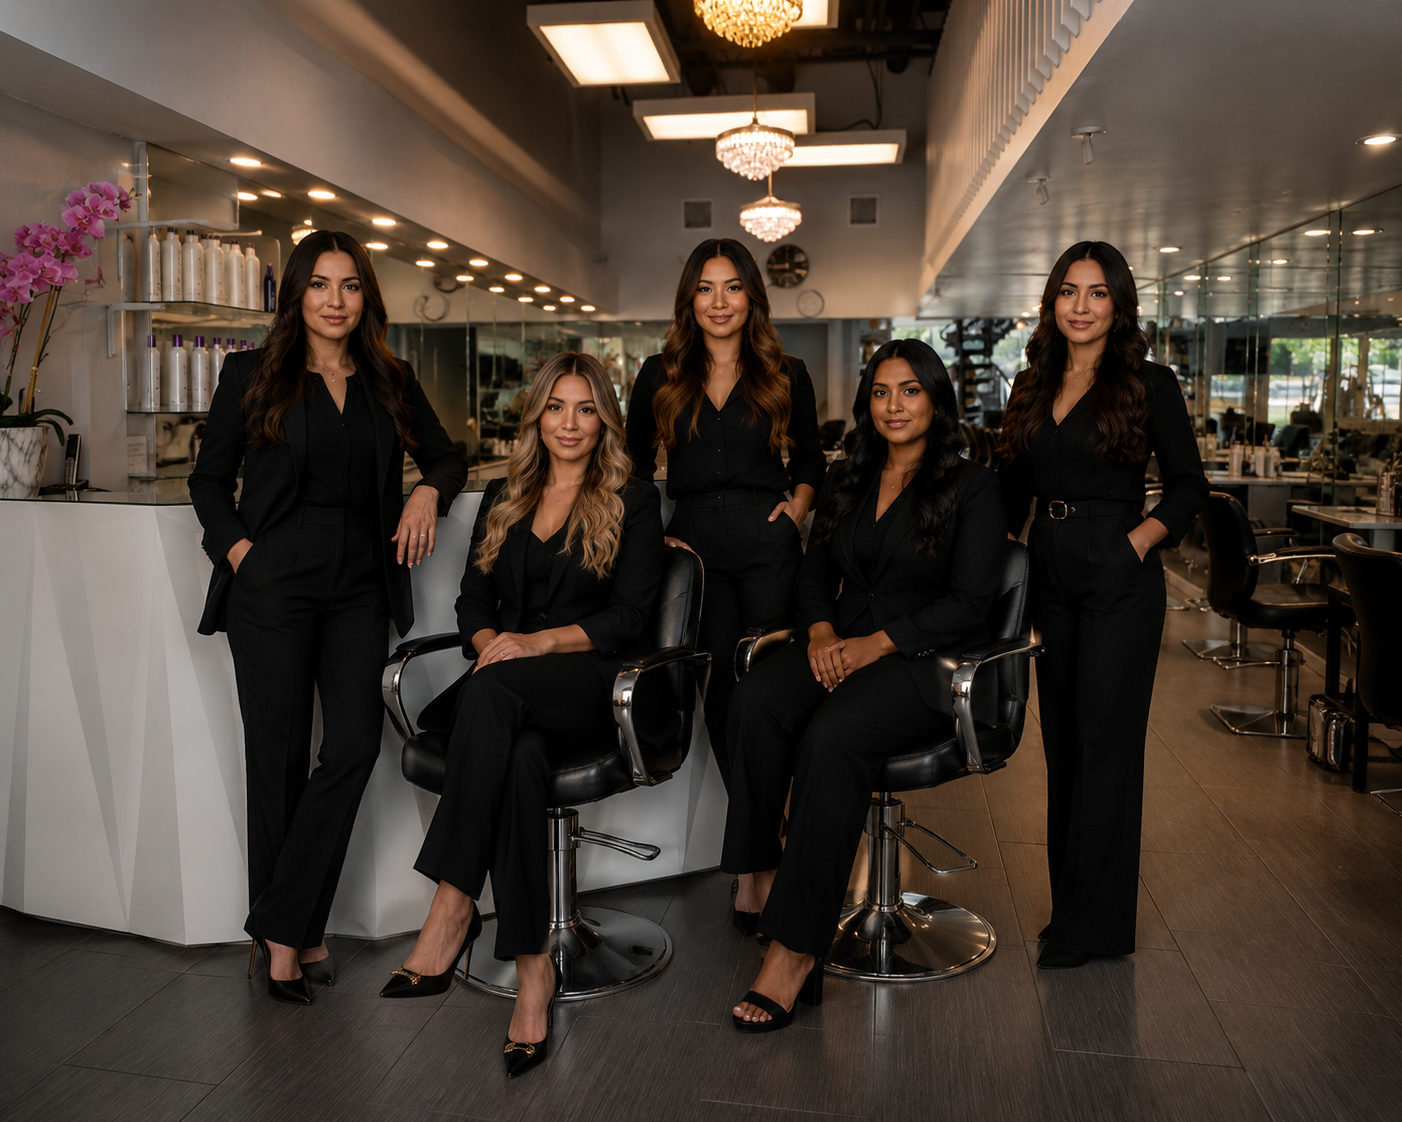
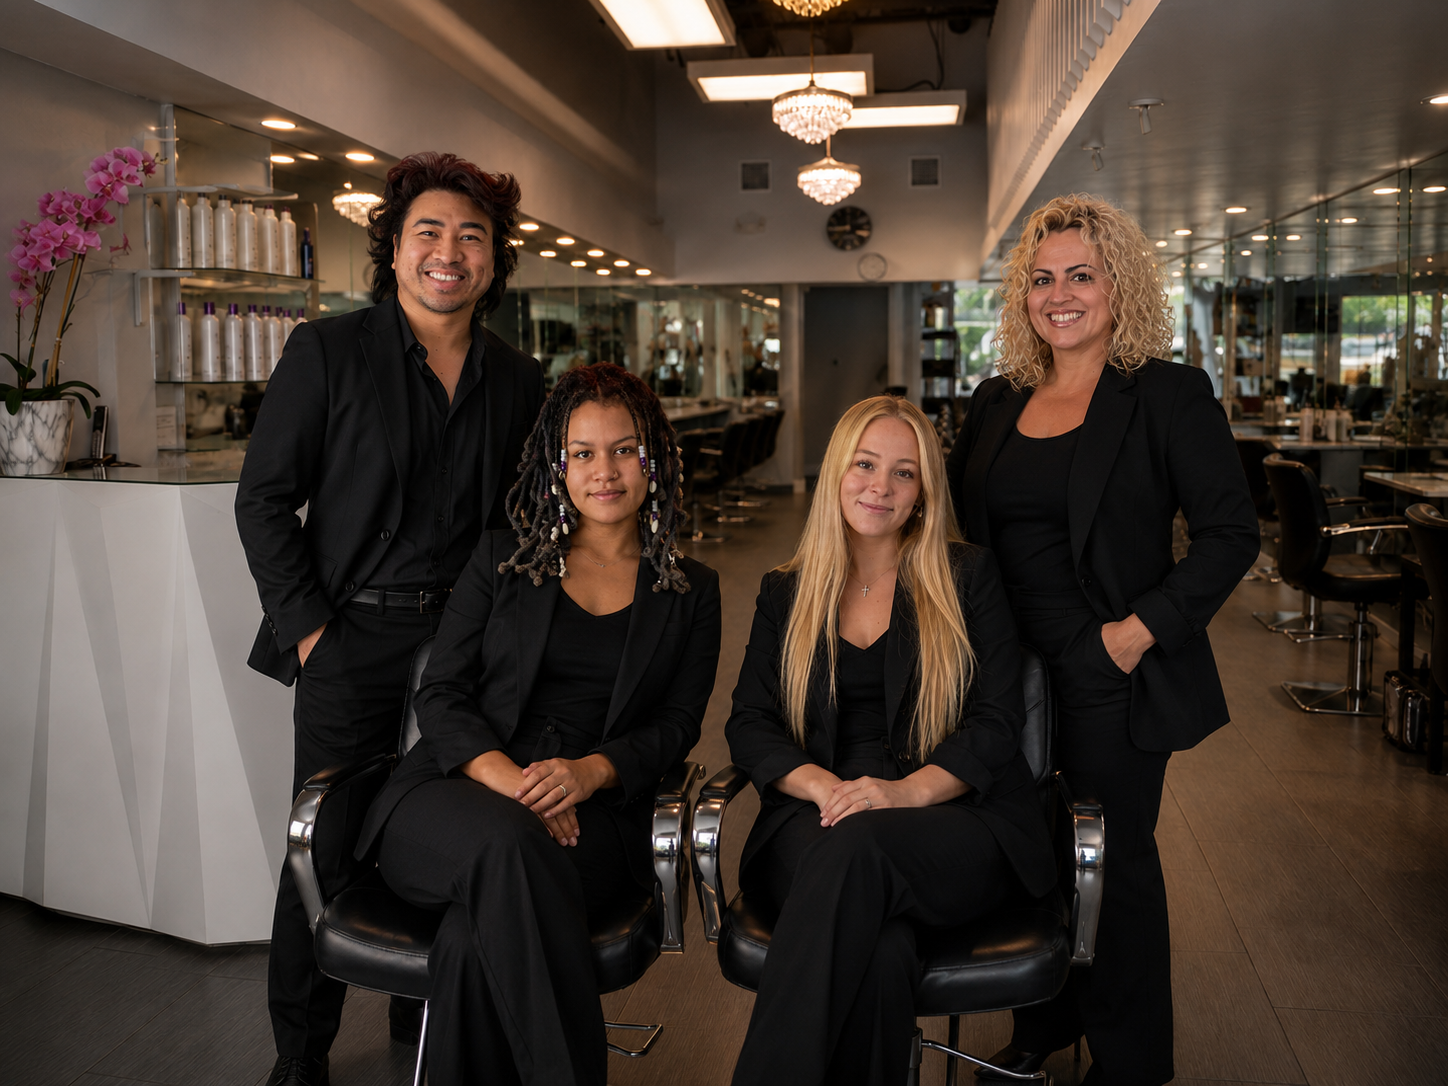
Update homepage team photo and replace team section with real staff

diff --git a/index.html b/index.html
@@ -472,7 +472,7 @@
     }
     .team-grid {
       display: grid;
-      grid-template-columns: repeat(5, 1fr);
+      grid-template-columns: repeat(4, 1fr);
       gap: 28px;
       max-width: 1200px;
       margin: 0 auto;
@@ -1132,7 +1132,6 @@
       .about-section { grid-template-columns: 1fr; gap: 56px; padding: 88px 28px; }
       .team-section { padding: 80px 28px; }
       .team-grid { grid-template-columns: 1fr 1fr; gap: 24px; }
-      .team-grid .team-card:last-child { grid-column: 1 / -1; max-width: calc(50% - 12px); margin: 0 auto; }
       .about-img-wrap { order: -1; }
       .services-section { padding: 88px 28px; }
       .services-grid { grid-template-columns: 1fr; }
@@ -1316,94 +1315,71 @@
     </div>
     <div class="team-grid">
 
-      <!-- Mia -->
+      <!-- Kevin -->
       <div class="team-card reveal">
         <div class="team-photo">
-          <img src="mila.jpg" alt="Mia Laurens">
+          <img src="kevin.jpg" alt="Kevin">
           <div class="corner-mark tl"></div>
           <div class="corner-mark br"></div>
         </div>
-        <div class="team-name">Mia Laurens</div>
-        <div class="team-role">Creative Director &amp; Lead Stylist</div>
+        <div class="team-name">Kevin</div>
+        <div class="team-role">Stylist</div>
         <div class="team-rule"></div>
-        <p class="team-bio">With over 12 years behind the chair, Mia leads the studio's creative vision. Known for her editorial cuts and impeccable bridal work.</p>
+        <p class="team-bio">Kevin brings skill and creativity to every chair, helping clients look and feel their best.</p>
         <div class="team-specialties">
           <span class="team-tag">Cuts</span>
-          <span class="team-tag">Bridal</span>
-          <span class="team-tag">Scalp</span>
+          <span class="team-tag">Color</span>
+          <span class="team-tag">Styling</span>
         </div>
       </div>
 
-      <!-- Jordan -->
+      <!-- Kerrington -->
       <div class="team-card reveal reveal-d1">
         <div class="team-photo">
-          <img src="jordan.jpg" alt="Jordan Reeves">
+          <img src="kerrington.jpg" alt="Kerrington">
           <div class="corner-mark tl"></div>
           <div class="corner-mark br"></div>
         </div>
-        <div class="team-name">Jordan Reeves</div>
-        <div class="team-role">Master Colorist &amp; Extension Specialist</div>
+        <div class="team-name">Kerrington</div>
+        <div class="team-role">Stylist</div>
         <div class="team-rule"></div>
-        <p class="team-bio">Jordan's balayage technique has earned a loyal clientele. Certified in tape and fusion extensions with a decade of color expertise.</p>
+        <p class="team-bio">Kerrington combines technical precision with a genuine passion for every client's individual style.</p>
         <div class="team-specialties">
-          <span class="team-tag">Balayage</span>
-          <span class="team-tag">Extensions</span>
-          <span class="team-tag">Keratin</span>
+          <span class="team-tag">Cuts</span>
+          <span class="team-tag">Color</span>
+          <span class="team-tag">Styling</span>
         </div>
       </div>
 
-      <!-- Kayla -->
+      <!-- Gigi -->
       <div class="team-card reveal reveal-d2">
         <div class="team-photo">
-          <img src="kayla.jpg" alt="Kayla Monroe">
+          <img src="gigi.jpg" alt="Gigi">
           <div class="corner-mark tl"></div>
           <div class="corner-mark br"></div>
         </div>
-        <div class="team-name">Kayla Monroe</div>
-        <div class="team-role">Senior Stylist &amp; Bridal Specialist</div>
+        <div class="team-name">Gigi</div>
+        <div class="team-role">Stylist</div>
         <div class="team-rule"></div>
-        <p class="team-bio">A sought-after bridal stylist and color artist, Kayla brings warmth and precision to every appointment — from consultations to the final look.</p>
+        <p class="team-bio">Gigi brings warmth and precision to every appointment, from consultation to final look.</p>
         <div class="team-specialties">
           <span class="team-tag">Cuts</span>
           <span class="team-tag">Color</span>
-          <span class="team-tag">Bridal</span>
+          <span class="team-tag">Styling</span>
         </div>
       </div>
 
-      <!-- Priya -->
+      <!-- Payton -->
       <div class="team-card reveal reveal-d3">
         <div class="team-photo">
-          <img src="priya.jpg" alt="Priya Nair">
+          <img src="payton.jpg" alt="Payton">
           <div class="corner-mark tl"></div>
           <div class="corner-mark br"></div>
         </div>
-        <div class="team-name">Priya Nair</div>
-        <div class="team-role">Keratin &amp; Color Specialist</div>
+        <div class="team-name">Payton</div>
+        <div class="team-role">Front Desk</div>
         <div class="team-rule"></div>
-        <p class="team-bio">Priya is the studio's go-to for transformative treatments. Her expertise in keratin and extensions gives every client longer-lasting results.</p>
-        <div class="team-specialties">
-          <span class="team-tag">Keratin</span>
-          <span class="team-tag">Extensions</span>
-          <span class="team-tag">Color</span>
-        </div>
-      </div>
-
-      <!-- Sofia -->
-      <div class="team-card reveal reveal-d4">
-        <div class="team-photo">
-          <img src="sofia.jpg" alt="Sofia Delgado">
-          <div class="corner-mark tl"></div>
-          <div class="corner-mark br"></div>
-        </div>
-        <div class="team-name">Sofia Delgado</div>
-        <div class="team-role">Bridal &amp; Lifestyle Stylist</div>
-        <div class="team-rule"></div>
-        <p class="team-bio">Sofia's eye for detail and passion for storytelling through hair makes her a favourite for bridal parties and special occasions.</p>
-        <div class="team-specialties">
-          <span class="team-tag">Cuts</span>
-          <span class="team-tag">Bridal</span>
-          <span class="team-tag">Scalp</span>
-        </div>
+        <p class="team-bio">Payton is the friendly face that greets every guest, making sure your visit starts off just right.</p>
       </div>
 
     </div>
